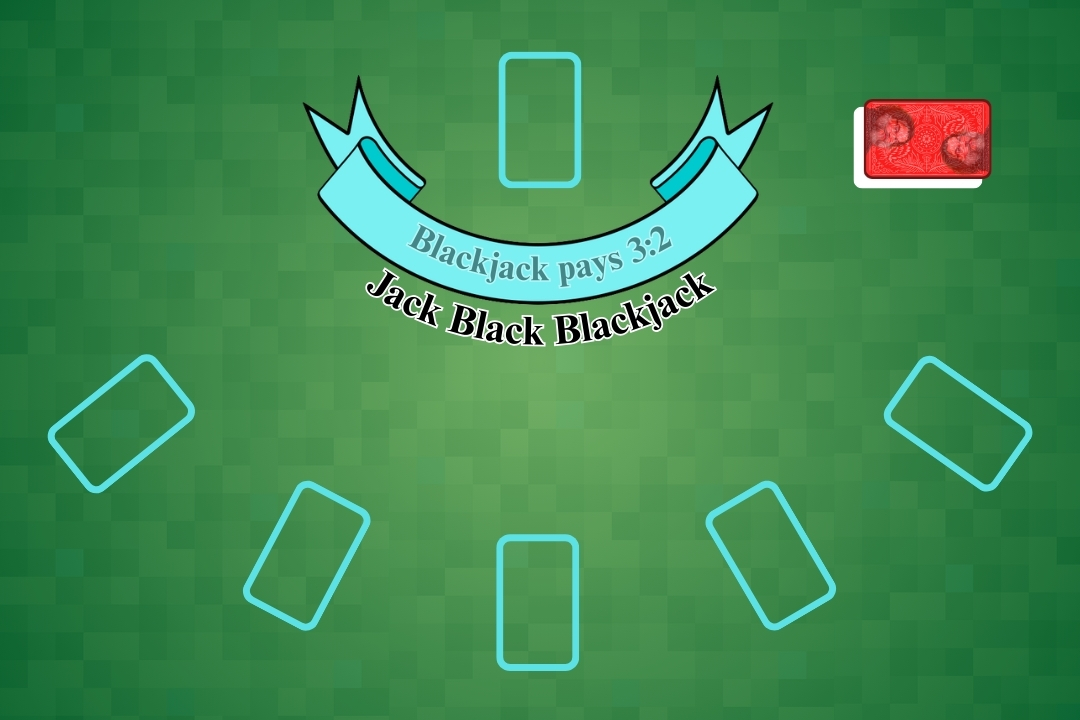
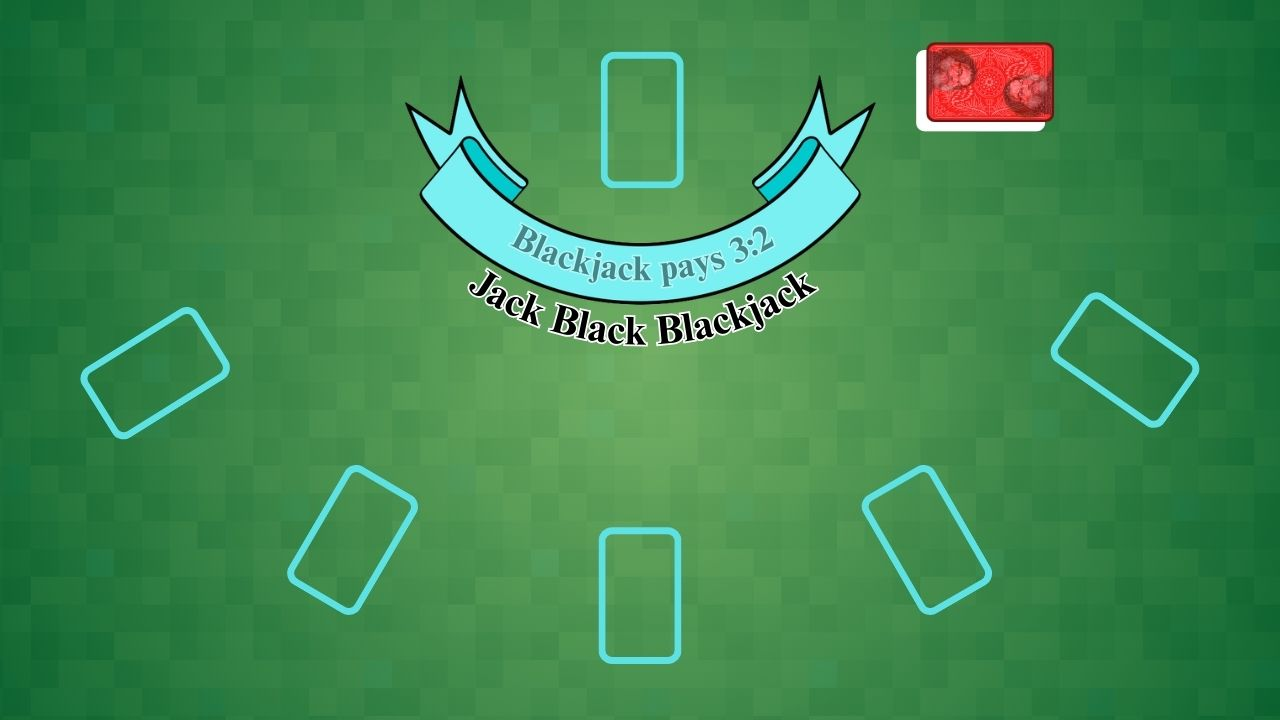
Fixed the screen spacing/aspect ratio

diff --git a/Client/Views/GameplayWindow.xaml b/Client/Views/GameplayWindow.xaml
@@ -3,12 +3,12 @@
         xmlns:x="http://schemas.microsoft.com/winfx/2006/xaml"
         xmlns:d="http://schemas.microsoft.com/expression/blend/2008"
         xmlns:mc="http://schemas.openxmlformats.org/markup-compatibility/2006">
-    <Viewbox Stretch="Uniform">
+    <Viewbox Stretch="Fill">
         <Grid>
             <Grid.Background>
                 <ImageBrush
                     ImageSource="/Assets/Gameboard.jpg"
-                    Stretch="UniformToFill" />
+                    Stretch="Fill" />
             </Grid.Background>
             <Rectangle Canvas.Left="0" Canvas.Top="0"
            Fill="#008000" Margin="328,98,466,502" />
